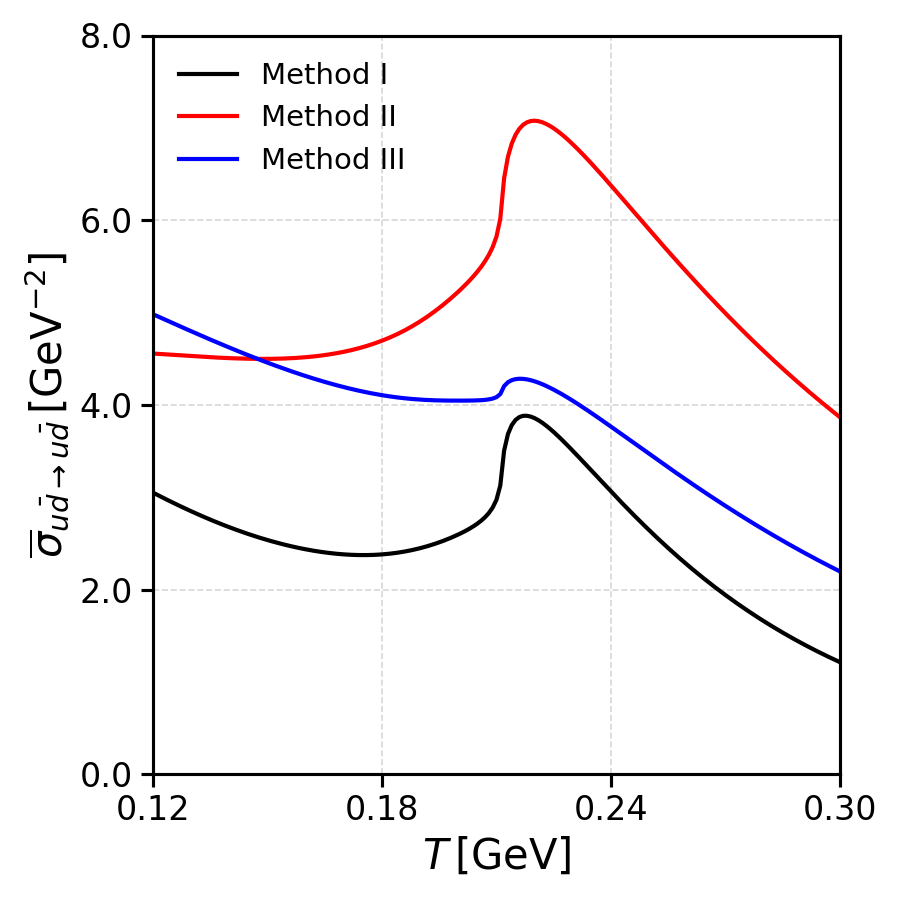
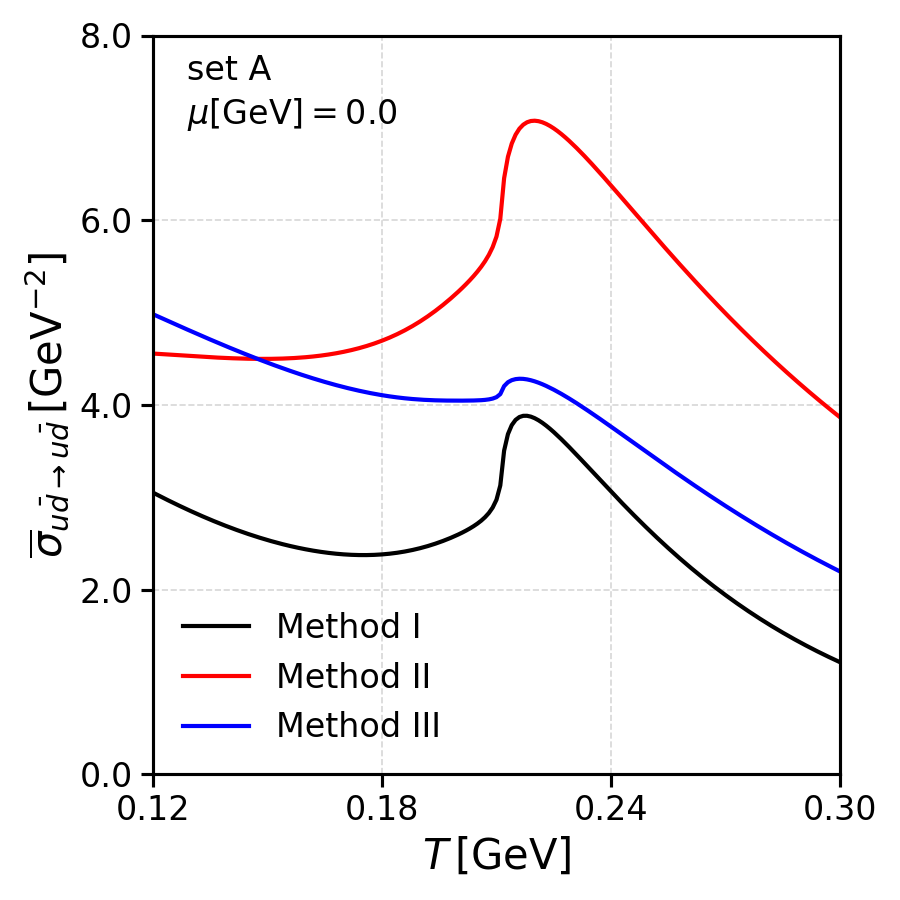
unify tools for plotting integrated cross sections

diff --git a/calculations/su3_3d_cutoff_int_cross_sections/zero_chem_pot/plotting/build_plots_integrated_cross_sections.py b/calculations/su3_3d_cutoff_int_cross_sections/zero_chem_pot/plotting/build_plots_integrated_cross_sections.py
@@ -53,6 +53,13 @@ plot_integrated_cross_section_vs_temperature(
     y_num_ticks=5,
     x_formatter="%.2f",
     y_formatter="%.1f",
+    annotation_texts=[
+        "set A",
+        r"$\mu [\mathrm{GeV}] = 0.0$",
+    ],
+    x_annotation=0.05,
+    y_annotation=0.88,
+    annotation_vert_space=0.06
 )
 
 process = "UUBarUUBar"
@@ -98,6 +105,13 @@ plot_integrated_cross_section_vs_temperature(
     y_num_ticks=5,
     x_formatter="%.2f",
     y_formatter="%.1f",
+    annotation_texts=[
+        "set A",
+        r"$\mu [\mathrm{GeV}] = 0.0$",
+    ],
+    x_annotation=0.05,
+    y_annotation=0.88,
+    annotation_vert_space=0.06
 )
 
 process = "UUBarDDBar"
@@ -143,6 +157,13 @@ plot_integrated_cross_section_vs_temperature(
     y_num_ticks=5,
     x_formatter="%.2f",
     y_formatter="%.1f",
+    annotation_texts=[
+        "set A",
+        r"$\mu [\mathrm{GeV}] = 0.0$",
+    ],
+    x_annotation=0.05,
+    y_annotation=0.88,
+    annotation_vert_space=0.06
 )
 
 process = "UUBarSSBar"
@@ -188,6 +209,13 @@ plot_integrated_cross_section_vs_temperature(
     y_num_ticks=4,
     x_formatter="%.2f",
     y_formatter="%.1f",
+    annotation_texts=[
+        "set A",
+        r"$\mu [\mathrm{GeV}] = 0.0$",
+    ],
+    x_annotation=0.08,
+    y_annotation=0.88,
+    annotation_vert_space=0.06
 )
 
 process = "USUS"
@@ -233,6 +261,13 @@ plot_integrated_cross_section_vs_temperature(
     y_num_ticks=5,
     x_formatter="%.2f",
     y_formatter="%.1f",
+    annotation_texts=[
+        "set A",
+        r"$\mu [\mathrm{GeV}] = 0.0$",
+    ],
+    x_annotation=0.05,
+    y_annotation=0.88,
+    annotation_vert_space=0.06
 )
 
 process = "USBarUSBar"
@@ -278,6 +313,13 @@ plot_integrated_cross_section_vs_temperature(
     y_num_ticks=5,
     x_formatter="%.2f",
     y_formatter="%.1f",
+    annotation_texts=[
+        "set A",
+        r"$\mu [\mathrm{GeV}] = 0.0$",
+    ],
+    x_annotation=0.05,
+    y_annotation=0.88,
+    annotation_vert_space=0.06
 )
 
 process = "UDUD"
@@ -323,6 +365,13 @@ plot_integrated_cross_section_vs_temperature(
     y_num_ticks=5,
     x_formatter="%.2f",
     y_formatter="%.1f",
+    annotation_texts=[
+        "set A",
+        r"$\mu [\mathrm{GeV}] = 0.0$",
+    ],
+    x_annotation=0.05,
+    y_annotation=0.88,
+    annotation_vert_space=0.06
 )
 
 process = "UDBarUDBar"
@@ -360,7 +409,7 @@ plot_integrated_cross_section_vs_temperature(
         ),
     ],
     path_output_plot=plots_folder + f"integrated_cross_section_setA_{process}_CP0.png",
-    legend_loc="upper left",
+    legend_loc="lower left",
     label_int_cross_section=process_to_ylabel_latex(process),
     xlim=(0.120, 0.300),
     ylim=(0.0, 8.0),
@@ -368,6 +417,13 @@ plot_integrated_cross_section_vs_temperature(
     y_num_ticks=5,
     x_formatter="%.2f",
     y_formatter="%.1f",
+    annotation_texts=[
+        "set A",
+        r"$\mu [\mathrm{GeV}] = 0.0$",
+    ],
+    x_annotation=0.05,
+    y_annotation=0.88,
+    annotation_vert_space=0.06
 )
 
 process = "SSSS"
@@ -413,6 +469,13 @@ plot_integrated_cross_section_vs_temperature(
     y_num_ticks=5,
     x_formatter="%.2f",
     y_formatter="%.1f",
+    annotation_texts=[
+        "set A",
+        r"$\mu [\mathrm{GeV}] = 0.0$",
+    ],
+    x_annotation=0.05,
+    y_annotation=0.88,
+    annotation_vert_space=0.06
 )
 
 process = "SSBarUUBar"
@@ -458,6 +521,13 @@ plot_integrated_cross_section_vs_temperature(
     y_num_ticks=5,
     x_formatter="%.2f",
     y_formatter="%.1f",
+    annotation_texts=[
+        "set A",
+        r"$\mu [\mathrm{GeV}] = 0.0$",
+    ],
+    x_annotation=0.05,
+    y_annotation=0.05,
+    annotation_vert_space=0.06
 )
 
 process = "SSBarSSBar"
@@ -503,4 +573,11 @@ plot_integrated_cross_section_vs_temperature(
     y_num_ticks=5,
     x_formatter="%.2f",
     y_formatter="%.1f",
+    annotation_texts=[
+        "set A",
+        r"$\mu [\mathrm{GeV}] = 0.0$",
+    ],
+    x_annotation=0.05,
+    y_annotation=0.88,
+    annotation_vert_space=0.06
 )
